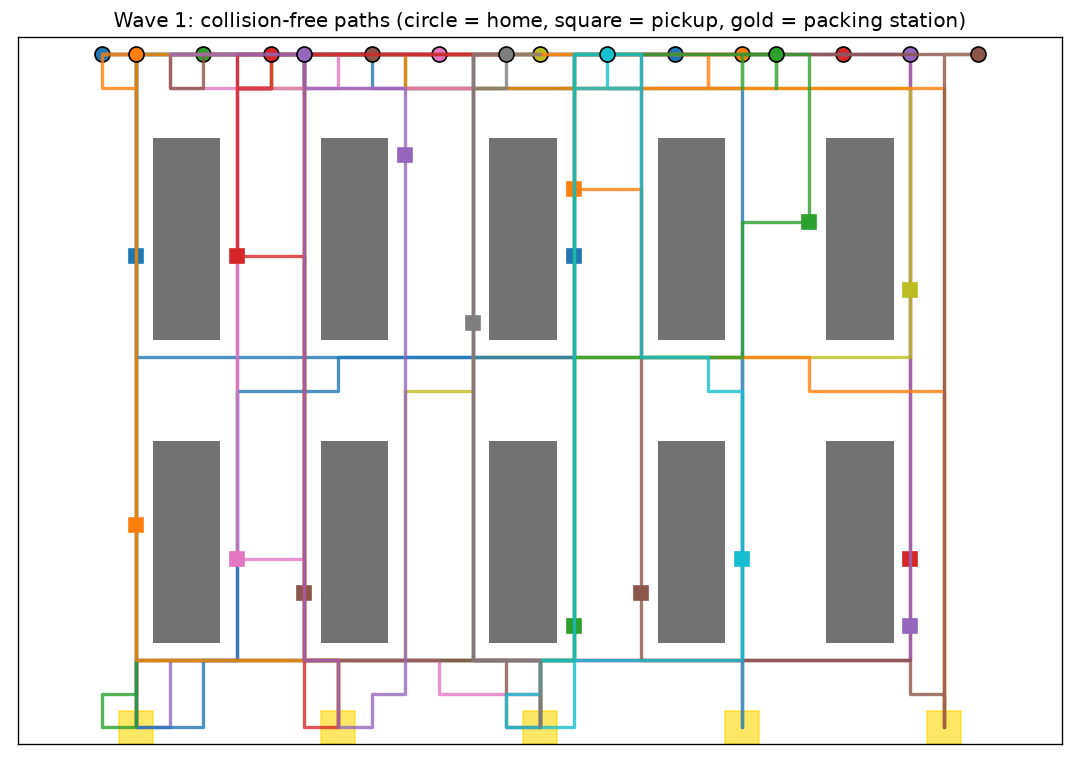
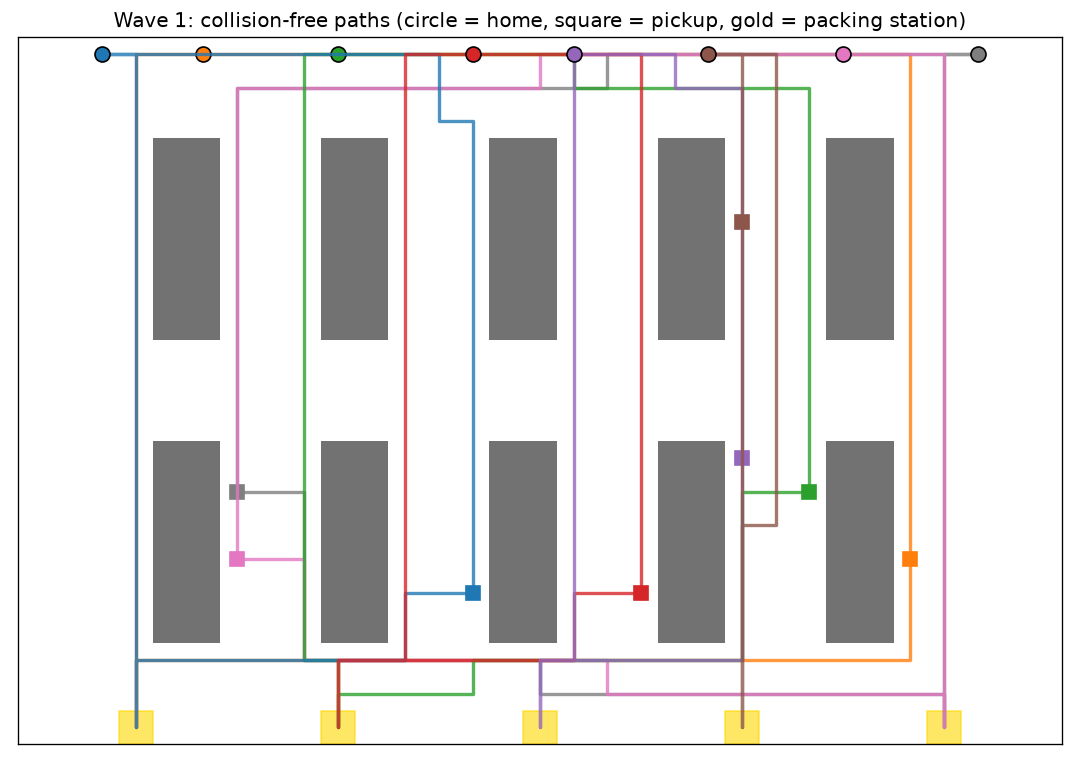
Add results

Changed region(s): [[0.0917, 0.0625, 0.9167, 0.9688], [0.3667, 0.1875, 0.3972, 0.2188]]

diff --git a/README.md b/README.md
@@ -19,7 +19,27 @@ python fleet_planner.py --robots 12 --waves 5 --seed 3   # bigger fleet
 
 ## Results
 
-<!-- paste your SUMMARY lines here -->
+```
+Warehouse 21x31, 8 robots, 3 waves of 8 orders (seed 7)
+
+wave 1: trip cost greedy 570 vs Hungarian 536 (6.0% shorter) | naive conflicts 12 | prioritized conflicts 0, makespan 88, extra wait steps 2, 8 ms
+wave 2: trip cost greedy 536 vs Hungarian 490 (8.6% shorter) | naive conflicts 12 | prioritized conflicts 0, makespan 80, extra wait steps 12, 8 ms
+wave 3: trip cost greedy 520 vs Hungarian 482 (7.3% shorter) | naive conflicts 12 | prioritized conflicts 0, makespan 76, extra wait steps 43, 19 ms
+
+SUMMARY
+  Allocation: Hungarian total travel 1508 cells vs greedy 1626 (7.3% less travel)
+  Collisions: naive shortest paths 36 (16 same-cell, 20 head-on) vs prioritized planner 0
+  Cost of avoiding collisions: 57 extra steps out of 1613 (3.5%)
+  Planning time: 12 ms per wave on average
+```
+
+**12 robots, 5 waves:**
+```
+Allocation: Hungarian total travel 3424 cells vs greedy 3782 (9.5% less travel)
+  Collisions: naive shortest paths 154 (129 same-cell, 25 head-on) vs prioritized planner 0
+  Cost of avoiding collisions: 409 extra steps out of 3953 (10.3%)
+  Planning time: 32 ms per wave on average
+```
 
 ## How it works
 
